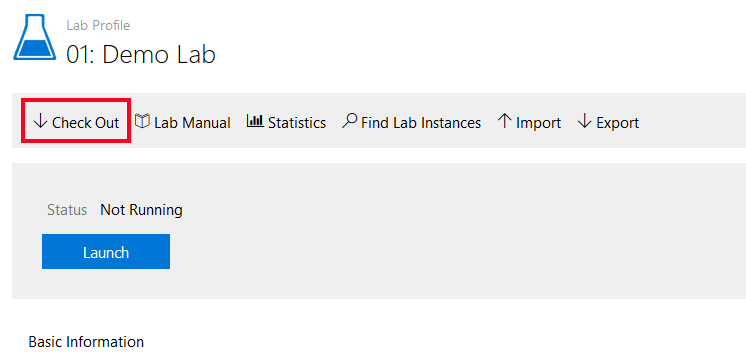
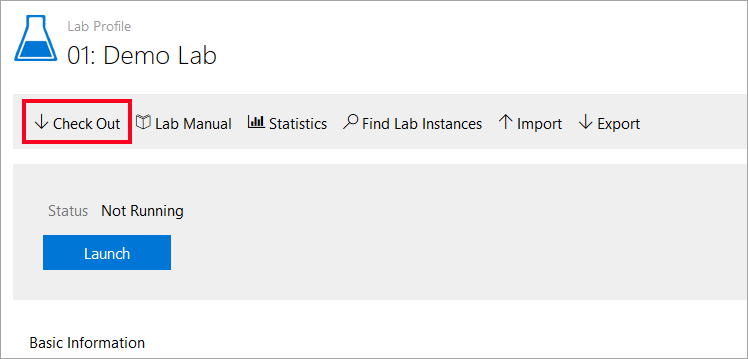
Added borders to screenshots

diff --git a/idl2/idlv2-authoring-guide-and-best-practice.md b/idl2/idlv2-authoring-guide-and-best-practice.md
@@ -9,8 +9,7 @@ This guide provides information on the Integrated Digital Lab Version 2 (IDL v2)
 
 This guide assumes that the reader:
 
--   Has a developer account with sufficient permissions to create a lab
-    guide and modify select properties of a lab profile.
+-   Has a developer account with sufficient permissions to create a lab guide and modify select properties of a lab profile.
 -   Has existing knowledge of basic Markdown.
 -   Has existing knowledge to navigate Lab on Demand (LOD)
 -   Has a help desk support contract to pay for additional custom
